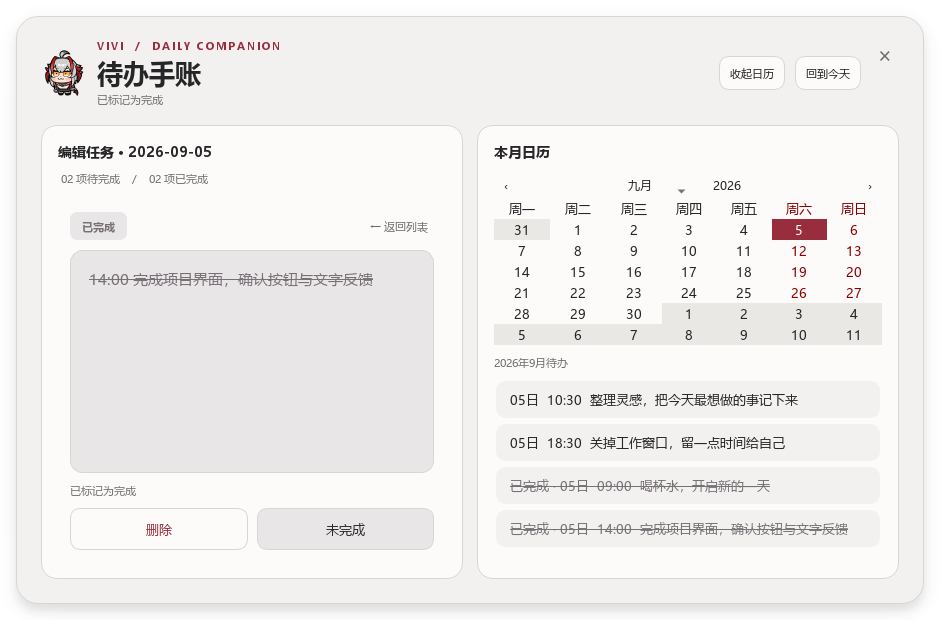
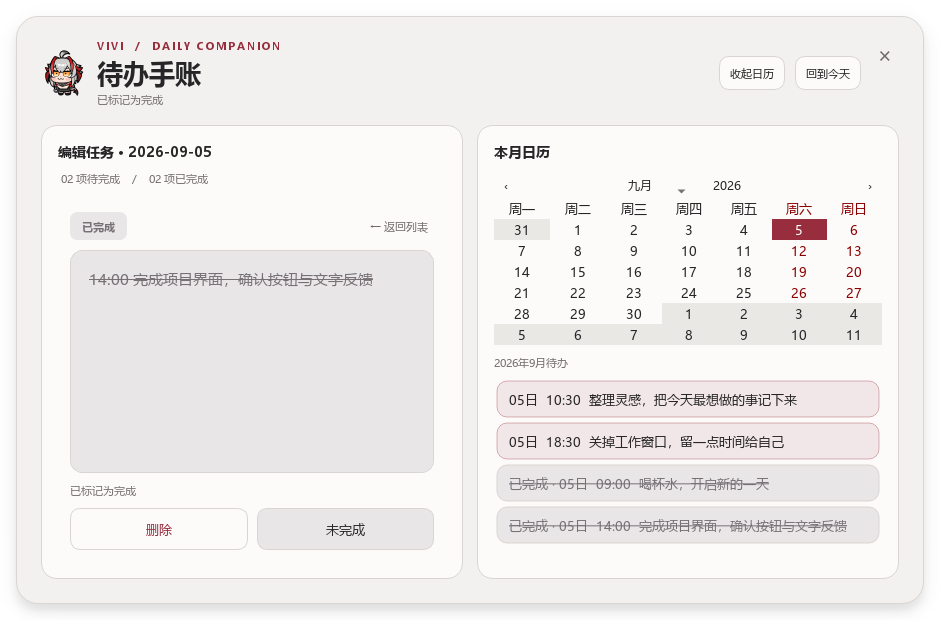
fix: restore menu artwork and clarify todo calendar styling

Changed region(s): [[0.5245, 0.6129, 0.9255, 0.7968], [0.5245, 0.8274, 0.8947, 0.8581]]

diff --git a/src/ui/theme/styles.py b/src/ui/theme/styles.py
@@ -1,6 +1,6 @@
 """公共控件与页面样式。改颜色请到 theme/__init__.py，改布局请到窗口类。"""
 
-from . import qss
+from . import P, qss, translucent_color
 
 
 BASE = qss('''
@@ -57,9 +57,9 @@ TODO = BASE + qss('''
         padding: 4px 9px; font-size: 11px; font-weight: 600; }
     QLabel#editor_state_badge[completed="true"] { color: $completed; background: $completed_bg; }
     QLabel#editor_hint[error="true"] { color: $accent; }
-    QTextEdit#task_editor { background: $canvas; border: 1px solid $line;
+    QTextEdit#task_editor { background: $pending_background; border: 1px solid $pending_border;
         border-radius: 12px; padding: 14px; font-size: 15px; }
-    QTextEdit#task_editor:focus { border-color: $accent; background: $white; }
+    QTextEdit#task_editor:focus { border-color: $accent; background: $pending_background; }
     QTextEdit#task_editor[completed="true"] { background: $completed_bg; color: $completed;
         border-color: $line; text-decoration: line-through; }
     QPushButton#back_to_list_btn { background: transparent; border: none; color: $muted;
@@ -87,6 +87,23 @@ TODO = BASE + qss('''
     QCalendarWidget QAbstractItemView:enabled { color: $ink; background: $surface;
         selection-background-color: $accent; selection-color: $white; outline: 0; }
     QCalendarWidget QWidget#qt_calendar_navigationbar { background: $surface; }
+''', pending_background=translucent_color(P.accent, 24), pending_border=translucent_color(P.accent, 90))
+
+
+CALENDAR_MONTH_MENU = qss('''
+    QMenu { background-color: $white; color: $ink; border: 1px solid $line;
+        padding: 4px; font-family: "$font"; font-size: 12px; }
+    QMenu::item { background-color: transparent; color: $ink; padding: 6px 20px; }
+    QMenu::item:selected { background-color: $accent_soft; color: $accent; }
+    QMenu::item:disabled { color: $faint; }
+''')
+
+CALENDAR_YEAR_EDITOR = qss('''
+    QSpinBox, QSpinBox QLineEdit { background-color: $white; color: $ink;
+        selection-background-color: $accent_soft; selection-color: $ink; }
+    QSpinBox { border: 1px solid $line; border-radius: 5px; padding: 3px 18px 3px 6px; }
+    QSpinBox:focus { border-color: $accent; }
+    QSpinBox::up-button, QSpinBox::down-button { background-color: $white; border: none; width: 16px; }
 ''')
 
 

diff --git a/src/ui/todo_delegate.py b/src/ui/todo_delegate.py
@@ -8,8 +8,12 @@ from src.ui.theme import P, default_ui_font_family
 
 
 class TodoItemDelegate(QStyledItemDelegate):
+    def __init__(self, parent=None, *, compact=False):
+        super().__init__(parent)
+        self.compact = compact
+
     def sizeHint(self, option, index):
-        return QSize(0, 62)
+        return QSize(0, 42 if self.compact else 62)
 
     def paint(self, painter, option, index):
         task = index.data(Qt.ItemDataRole.UserRole)
@@ -22,10 +26,27 @@ class TodoItemDelegate(QStyledItemDelegate):
         painter.save()
         painter.setRenderHint(painter.RenderHint.Antialiasing)
         rect = option.rect.adjusted(1, 3, -1, -3)
-        painter.setPen(QPen(QColor(P.accent if selected else P.line if hovered else P.canvas)))
-        painter.setBrush(QColor(P.completed_bg if completed else P.accent_soft if selected else P.canvas))
+        # 红色透明度只作用于背景和边框，正文始终保持不透明，保证可读性。
+        background = QColor(P.completed_bg if completed else P.accent)
+        border = QColor(P.line if completed else P.accent)
+        if not completed:
+            background.setAlpha(42 if selected else 34 if hovered else 24)
+            border.setAlpha(255 if selected else 128 if hovered else 90)
+        painter.setPen(QPen(border))
+        painter.setBrush(background)
         painter.drawRoundedRect(rect, 10, 10)
         font = QFont(default_ui_font_family())
+        if self.compact:
+            font.setPixelSize(13)
+            font.setStrikeOut(completed)
+            painter.setFont(font)
+            painter.setPen(QColor(P.completed if completed else P.ink))
+            text = painter.fontMetrics().elidedText(str(index.data() or ""),
+                Qt.TextElideMode.ElideRight, max(1, rect.width() - 24))
+            painter.drawText(rect.adjusted(12, 0, -12, 0),
+                Qt.AlignmentFlag.AlignLeft | Qt.AlignmentFlag.AlignVCenter, text)
+            painter.restore()
+            return
         font.setPixelSize(11)
         font.setWeight(QFont.Weight.Medium)
         painter.setFont(font)

diff --git a/src/ui/todo_calendar.py b/src/ui/todo_calendar.py
@@ -2,9 +2,10 @@
 
 from datetime import date
 from PyQt6.QtCore import QDate, Qt
-from PyQt6.QtGui import QColor, QTextCharFormat, QIcon
-from PyQt6.QtWidgets import QCalendarWidget, QToolButton
+from PyQt6.QtGui import QColor, QTextCharFormat, QIcon, QPalette
+from PyQt6.QtWidgets import QCalendarWidget, QToolButton, QSpinBox
 from src.ui.theme import P
+from src.ui.theme.styles import CALENDAR_MONTH_MENU, CALENDAR_YEAR_EDITOR
 
 
 class TodoCalendar(QCalendarWidget):
@@ -18,6 +19,24 @@ class TodoCalendar(QCalendarWidget):
                 button.setIcon(QIcon())
                 button.setArrowType(Qt.ArrowType.NoArrow)
                 button.setText(text)
+
+        # 月份使用独立 QMenu，年份使用内嵌 QSpinBox；它们不会完整继承
+        # 日历网格的背景。显式设置两者，避免系统深色主题造成黑底深色字。
+        month_button = self.findChild(QToolButton, "qt_calendar_monthbutton")
+        year_editor = self.findChild(QSpinBox, "qt_calendar_yearedit")
+        month_menu = month_button.menu() if month_button is not None else None
+        for widget, style in ((month_menu, CALENDAR_MONTH_MENU), (year_editor, CALENDAR_YEAR_EDITOR)):
+            if widget is None:
+                continue
+            palette = widget.palette()
+            for role in (QPalette.ColorRole.Window, QPalette.ColorRole.Base, QPalette.ColorRole.Button):
+                palette.setColor(role, QColor(P.white))
+            for role in (QPalette.ColorRole.WindowText, QPalette.ColorRole.Text, QPalette.ColorRole.ButtonText):
+                palette.setColor(role, QColor(P.ink))
+            palette.setColor(QPalette.ColorRole.Highlight, QColor(P.accent_soft))
+            palette.setColor(QPalette.ColorRole.HighlightedText, QColor(P.ink))
+            widget.setPalette(palette)
+            widget.setStyleSheet(style)
 
     def refresh_marks(self, items_by_date):
         for marked_date in self._marked_dates:

diff --git a/Others/tools/preview_ui.py b/Others/tools/preview_ui.py
@@ -17,7 +17,8 @@ sys.path.insert(0, str(ROOT))
 
 from PyQt6.QtCore import QDate, Qt, QPoint, QCoreApplication, QEvent
 from PyQt6.QtGui import QFontDatabase, QFont, QPixmap, QPainter, QColor
-from PyQt6.QtWidgets import QApplication, QLabel
+from PyQt6.QtWidgets import QApplication, QLabel, QToolButton, QSpinBox
+from PyQt6.QtTest import QTest
 
 from src.ui.theme import P, default_ui_font_family
 from src.ui.todo_panel import TodoPanel
@@ -61,6 +62,15 @@ def main():
          patch("src.ui.todo_panel.save_todo_items_by_date", return_value=True):
         panel = TodoPanel()
         capture(panel, "todo")
+        month_button = panel.calendar.findChild(QToolButton, "qt_calendar_monthbutton")
+        month_menu = month_button.menu()
+        month_menu.popup(month_button.mapToGlobal(QPoint(0, month_button.height())))
+        capture(month_menu, "calendar-months")
+        month_menu.hide()
+        panel.calendar.findChild(QToolButton, "qt_calendar_yearbutton").click()
+        capture(panel, "calendar-year")
+        year_editor = panel.calendar.findChild(QSpinBox, "qt_calendar_yearedit")
+        QTest.keyClick(year_editor, Qt.Key.Key_Escape)
         panel._on_today_item_selected(panel.today_list.item(1))
         capture(panel, "editor")
         panel.complete_btn.click()

diff --git a/src/ui/todo_panel.py b/src/ui/todo_panel.py
@@ -332,6 +332,8 @@ class TodoPanel(QWidget):
         month_section_layout.addWidget(self.month_caption)
 
         self.month_list = QListWidget(self.month_section)
+        self.month_list.setItemDelegate(TodoItemDelegate(self.month_list, compact=True))
+        self.month_list.setMouseTracking(True)
         self.month_list.setSelectionMode(QListWidget.SelectionMode.NoSelection)
         self.month_list.setWordWrap(True)
         self.month_list.setHorizontalScrollBarPolicy(Qt.ScrollBarPolicy.ScrollBarAlwaysOff)
@@ -987,6 +989,8 @@ class TodoPanel(QWidget):
                 item = QListWidgetItem(
                     f"{prefix}{day.day:02d}日  {ddl_text}  {normalized_task['text']}"
                 )
+                item.setData(Qt.ItemDataRole.UserRole, normalized_task)
+                item.setToolTip(item.text())
                 if normalized_task["completed"]:
                     completed_font = item.font()
                     completed_font.setStrikeOut(True)

diff --git a/src/ui/theme/__init__.py b/src/ui/theme/__init__.py
@@ -35,6 +35,12 @@ class Palette:
 P = Palette()
 
 
+def translucent_color(color, alpha):
+    """从公共色板派生半透明 QSS 颜色，换主题色时无需重复修改 RGB。"""
+    channels = [int(color[index:index + 2], 16) for index in (1, 3, 5)]
+    return f"rgba({channels[0]}, {channels[1]}, {channels[2]}, {alpha})"
+
+
 def default_ui_font_family():
     if sys.platform == "darwin":
         return "PingFang SC"

diff --git a/Others/docs/USER_GUIDE.md b/Others/docs/USER_GUIDE.md
@@ -164,16 +164,18 @@ loops:
 
 ## 界面风格与自定义
 
-维维美主题使用银白背景、炭黑菜单、深红主操作和少量琥珀色临期提示。窗口标题区使用项目自带的角色图，正文保持常规字重；周末维持深红色，选中日期使用白字。
+菜单保留项目原来的图片和文字描边。待办使用银白背景，未完成事项以半透明红色背景与边框强调，完成事项保留灰色底和删除线。窗口标题区使用项目自带的角色图，正文保持常规字重；周末维持深红色，选中日期使用白字。月份下拉菜单和年份输入框均使用白底深色文字。
+
+日历选择器预览：[月份下拉](images/vivi-calendar-months.png)、[年份输入](images/vivi-calendar-year.png)。
 
 `config/dialog_style.yaml` 的常用配置：
 
 | 字段 | 默认值 | 作用 |
 | --- | --- | --- |
 | `menu_style` | `circular` | `circular` 为环形菜单，`list` 为列表菜单 |
-| `circular_button_mode` | `default` | 统一主题矢量按钮；`image` 恢复原始贴图按钮 |
+| `circular_button_mode` | `image` | 默认使用原始图片；`default` 可选矢量按钮 |
 | `circular_btn_select/quit/off` | 原资源路径 | 图片模式所用素材 |
-| `outline_button_text` | `false` | 图片模式的文字描边 |
+| `outline_button_text` | `true` | 保留图片菜单原有的文字描边 |
 | `outline_dialog_bubble` | `false` | 对话卡片的加深边框 |
 
 截图和数值输入窗口使用统一卡片，不再从旧背景图片拉伸生成窗口。历史配置中的 `background`、`btn_*_normal/hover/pressed` 和 `outline_dialog_text` 不再参与工具窗口排版。

diff --git a/README.md b/README.md
@@ -21,7 +21,7 @@ python -m src
 
 ## 待办手账
 
-任务卡片区分时间、正文与完成状态。点击后进入整页编辑，底部提供删除和完成／未完成切换；完成后保留任务并锁定正文。编辑会自动保存，失败时显示错误并保留输入。
+菜单保留原始图片。任务卡片区分时间、正文与完成状态，未完成事项使用半透明红色背景和边框强调。点击后进入整页编辑，底部提供删除和完成／未完成切换；完成后保留任务并锁定正文。编辑会自动保存，失败时显示错误并保留输入。
 
 ![待办手账](Others/docs/images/vivi-todo.png)
 
